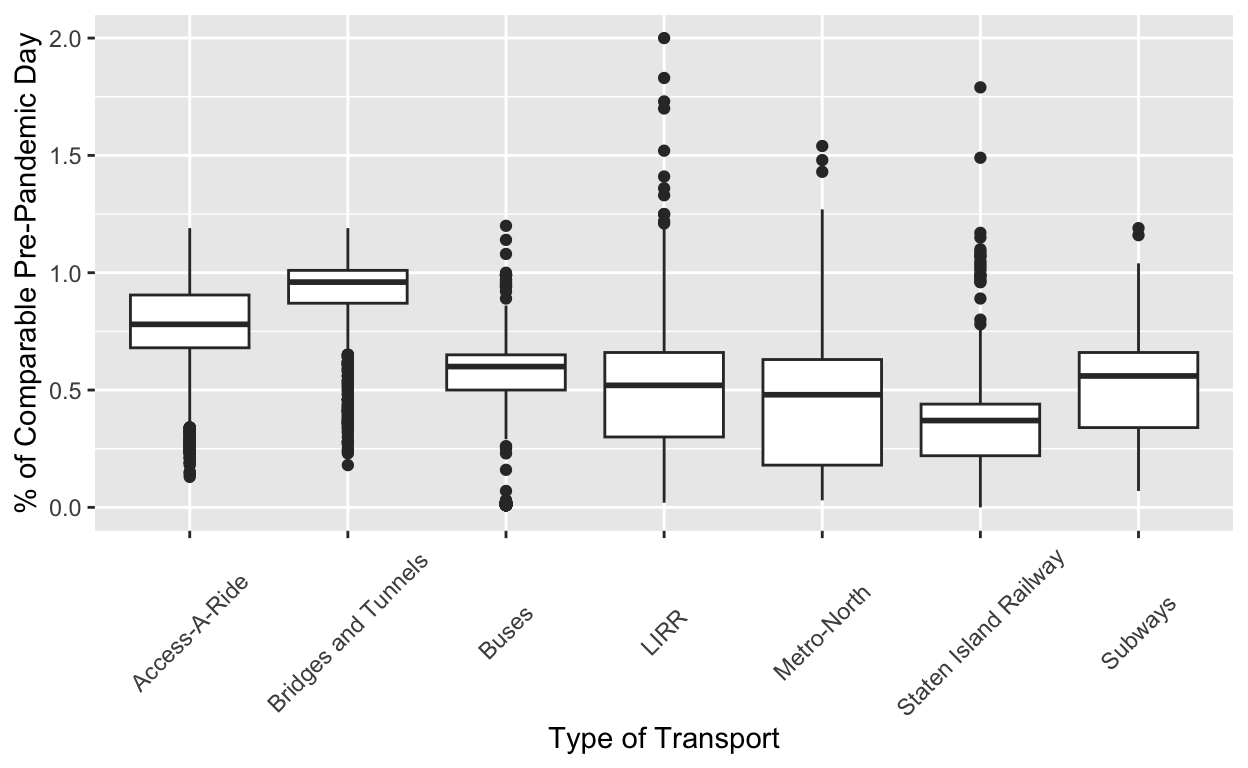
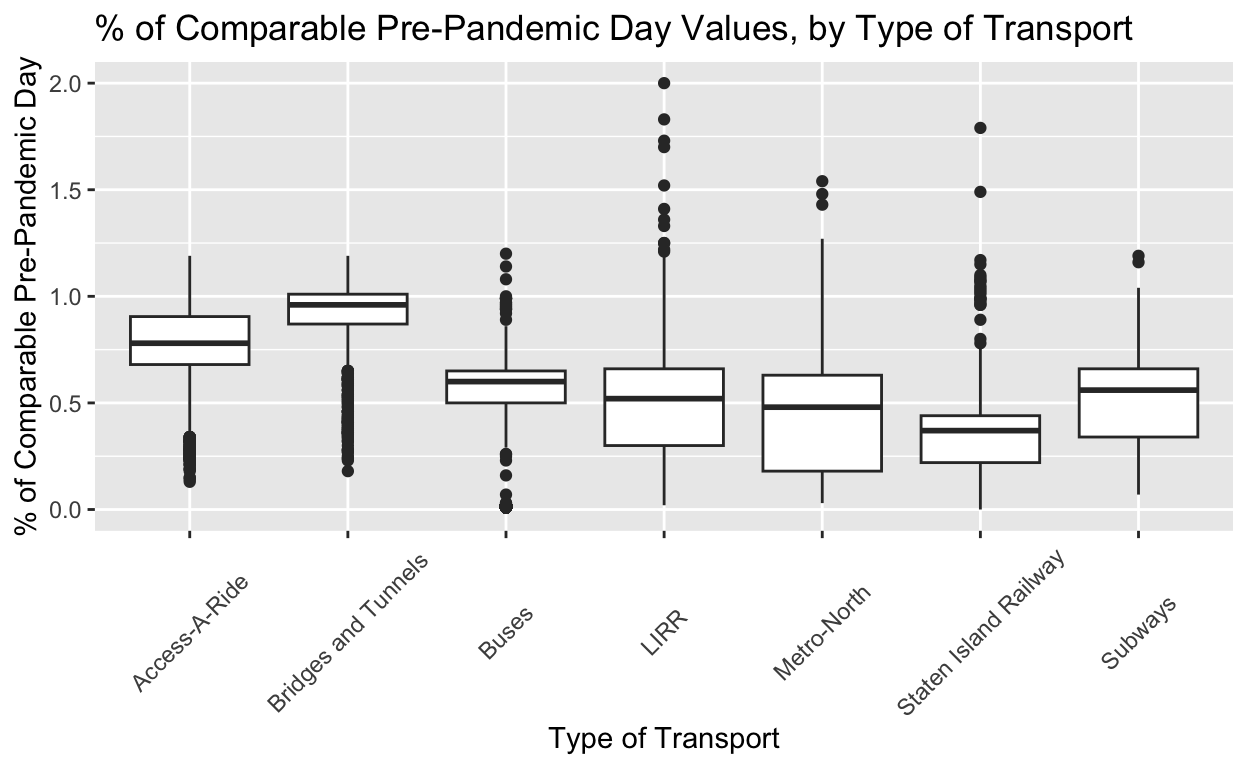
FINAL

diff --git a/index.html b/index.html
@@ -1521,10 +1521,11 @@ code span.wa { color: #5e5e5e; font-style: italic; } /* Warning */
 <div class="d-article">
 <h2 id="introduction">Introduction</h2>
 <p>As we approach four years since the start of the COVID-19 pandemic, our world seems to have returned to normalcy – or, at least, a new normal. There is no question that the pandemic touched multiple facets of our lives, from the way in which we learn, to the forms of interactions that maintain our interpersonal relationships. However, lingering effects of the pandemic still remain, like the rise of remote/hybrid work models even as many have returned to the office. One such lingering effect is seen in public transportation. Public transportation, especially in large cities, is the way in which thousands of people interact and cross paths with each other on a daily basis, so it’s natural that ridership levels took a hit during the pandemic. However, in the time since, has ridership recovered?</p>
-<p>In this study, I’m interested in exploring the extent to which public transport has been impacted by the COVID-19 pandemic. More specifically, which form of public transport has been hit the hardest? I plan to examine data from the New York Metropolitan Transportation Authority (MTA), containing statistics on ridership and the corresponding proportion of pre-pandemic ridership levels for each of the forms of public transport offered under the MTA in the greater New York City metropolitan area. I hypothesize that the Subway form of public transport suffered the largest impact on ridership from the pandemic, due to it having the highest ridership levels relative to all other forms of public transport, as well as the unavoidable proximity riders experience, and as a consequence, is likely viewed to be of highest-risk.</p>
+<p>In this analysis, I’m interested in exploring the extent to which public transport has been impacted by the COVID-19 pandemic. More specifically, which form of public transport has been hit the hardest? I plan to examine data from the New York Metropolitan Transportation Authority (MTA), containing statistics on ridership and the corresponding proportion of pre-pandemic ridership levels for each of the forms of public transport offered under the MTA in the greater New York City metropolitan area. I hypothesize that the Subway form of public transport suffered the largest impact on ridership from the pandemic, due to it having the highest ridership levels relative to all other forms of public transport, as well as the unavoidable proximity riders experience, and as a consequence, is likely viewed to be of highest-risk.</p>
 <h2 id="data">Data</h2>
-<p>The MTA is a public benefit corporation responsible for public transportation in the state of New York. This dataset provides systemwide ridership and traffic estimates for subways (including the Staten Island Railway), buses, Long Island Rail Road, Metro-North Railroad, Access-A-Ride, and Bridges and Tunnels, beginning March 1st, 2020 (April 1st, 2020 for LIRR and Metro-North), and provides a percentage comparison against a comparable pre-pandemic date (the equivalent month in 2019). Ridership figures (and subsequently, the <code>% of Comparable Pre-Pandemic Day</code> values [the dependent variable in this study]) are determined through what can be generalized as a census method – a combination of MetroCard, OMNY swipes/taps, ticket sales, scheduled trips, and toll collection systems – tracked over time (the independent variable) on a daily basis from March 1st, 2020 to present.</p>
-<p>The research design for this study follows the differences-in-differences method, with the “treatment” being the pandemic, the “treatment group” being the ridership levels pre-pandemic (2019 data), and the “control group” being the ridership levels after the onset of the pandemic (post-March 1st, 2020). Through the differences-in-differences research design, we are able to measure the effect the “treatment” (the pandemic) had on ridership over time. Below is a boxplot summarizing the <code>% of Comparable Pre-Pandemic Day</code> values for each type of transportation. As seen in the boxplot, the median <code>% of Comparable Pre-Pandemic Day</code> value hovers around 50-60% for most forms of transport, with some notably high exceptions for Bridges and Tunnels and Access-a-Ride.</p>
+<p>The MTA is a public benefit corporation responsible for public transportation in the state of New York. This dataset provides systemwide ridership and traffic estimates for subways (including the Staten Island Railway), buses, Long Island Rail Road, Metro-North Railroad, Access-A-Ride, and Bridges and Tunnels, beginning March 1st, 2020 (April 1st, 2020 for LIRR and Metro-North), and provides a percentage comparison against a comparable pre-pandemic date (the equivalent month in 2019). Ridership figures (and subsequently, the <code>% of Comparable Pre-Pandemic Day</code> values [the dependent variable in this analysis]) are determined through what can be generalized as a census method – a combination of MetroCard, OMNY swipes/taps, ticket sales, scheduled trips, and toll collection systems – tracked over time (the independent variable) on a daily basis from March 1st, 2020 to present.</p>
+<p>This analysis follows a longitudinal study method, as we are observing the same sample (ridership levels for each of the forms of transport) over an extended period of time (2020 to present) and are collecting this data without direct “treatment”. However, the “treatment” in this analysis can be seen as being the pandemic, the “treatment group” being the ridership levels pre-pandemic (2019 data), and the “control group” being the ridership levels after the onset of the pandemic (post-March 1st, 2020). Through the longitudinal research design, we are able to measure the effect the “treatment” (the pandemic) had on ridership over time. Below is a boxplot summarizing the <code>% of Comparable Pre-Pandemic Day</code> values for each type of transportation. As seen in the following boxplot, the median <code>% of Comparable Pre-Pandemic Day</code> value hovers around 50-60% for most forms of transport, with some notably high exceptions for Bridges and Tunnels and Access-a-Ride.</p>
+<h3 id="tidying-the-data">Tidying the Data</h3>
 <div class="layout-chunk" data-layout="l-body">
 <div class="sourceCode">
 <pre class="sourceCode r"><code class="sourceCode r"><span><span class='fu'><a href='https://rdrr.io/r/base/options.html'>options</a></span><span class='op'>(</span>width <span class='op'>=</span> <span class='fl'>100</span><span class='op'>)</span></span>
@@ -1562,7 +1563,7 @@ code span.wa { color: #5e5e5e; font-style: italic; } /* Warning */
 <span>  <span class='fu'><a href='https://rdrr.io/r/stats/na.fail.html'>na.omit</a></span><span class='op'>(</span><span class='op'>)</span></span></code></pre>
 </div>
 </div>
-<h3 id="of-comparable-pre-pandemic-day-values-by-type">% of Comparable Pre-Pandemic Day Values, by type</h3>
+<h3 id="summary-boxplot-of-dependent-variable">Summary Boxplot of Dependent Variable</h3>
 <div class="layout-chunk" data-layout="l-body">
 <div class="sourceCode">
 <pre class="sourceCode r"><code class="sourceCode r"><span><span class='va'>ridership_prop</span> <span class='op'>|&gt;</span></span>
@@ -1570,7 +1571,8 @@ code span.wa { color: #5e5e5e; font-style: italic; } /* Warning */
 <span>  <span class='fu'><a href='https://ggplot2.tidyverse.org/reference/geom_boxplot.html'>geom_boxplot</a></span><span class='op'>(</span><span class='op'>)</span> <span class='op'>+</span></span>
 <span>  <span class='fu'><a href='https://ggplot2.tidyverse.org/reference/labs.html'>labs</a></span><span class='op'>(</span></span>
 <span>    x <span class='op'>=</span> <span class='st'>"Type of Transport"</span>,</span>
-<span>    y <span class='op'>=</span> <span class='st'>"% of Comparable Pre-Pandemic Day"</span></span>
+<span>    y <span class='op'>=</span> <span class='st'>"% of Comparable Pre-Pandemic Day"</span>,</span>
+<span>    title <span class='op'>=</span> <span class='st'>"% of Comparable Pre-Pandemic Day Values, by Type of Transport"</span></span>
 <span>  <span class='op'>)</span> <span class='op'>+</span></span>
 <span>  <span class='fu'><a href='https://ggplot2.tidyverse.org/reference/theme.html'>theme</a></span><span class='op'>(</span>axis.text.x <span class='op'>=</span> <span class='fu'><a href='https://ggplot2.tidyverse.org/reference/element.html'>element_text</a></span><span class='op'>(</span>angle <span class='op'>=</span> <span class='fl'>45</span>, vjust <span class='op'>=</span> <span class='fl'>0.5</span><span class='op'>)</span><span class='op'>)</span></span></code></pre>
 </div>
@@ -1579,7 +1581,7 @@ code span.wa { color: #5e5e5e; font-style: italic; } /* Warning */
 <h2 id="results">Results</h2>
 <p>Below is a scatterplot graph with lines of best fit (individual points removed to maintain the graph’s readability) depicting <code>% of Comparable Pre-Pandemic Day</code> values from March 1st, 2020 to present for each form of transportation. Lines should each start at a y-value of 1, but because measurements began on March 1st, 2020 and COVID restrictions were enacted soon after the start of data collection, the <code>geom_smooth()</code> function causes the <code>% of Comparable Pre-Pandemic Day</code> values to appear to start at far less than 1.</p>
 <p>As seen in the graph, buses were initially most severely impacted by the pandemic, with their <code>% of Comparable Pre-Pandemic Day</code> measurements dropping the most relative to any other form of transportation. Other forms of transport, such as the subway, LIRR, Metro-North, and Staten Island Railway, also had significant drops in ridership relative to a comparable pre-pandemic day. However, Bridges and Tunnels and Access-a-Ride had relative increases in ridership, which make sense, given individuals worried about transmission tended to prefer forms of transport that are not as close-contact as subways or buses. Following the <code>% of Comparable Pre-Pandemic Day</code> measurements for each of the forms of transport over time, we can see that Bridges and Tunnels and Access-a-Ride ridership levels have recovered to near pre-pandemic levels; however, other forms of public transport such as subways, buses, and the Staten Island Railway are still suffering the effects of the pandemic with ridership levels hovering at around 60% of pre-pandemic levels.</p>
-<h3 id="of-comparable-pre-pandemic-day-values-over-time">% of Comparable Pre-Pandemic Day Values, over time</h3>
+<h3 id="main-relationship-of-interest-plot">Main Relationship of Interest Plot</h3>
 <div class="layout-chunk" data-layout="l-body">
 <div class="sourceCode">
 <pre class="sourceCode r"><code class="sourceCode r"><span><span class='va'>ridership_prop</span> <span class='op'>|&gt;</span></span>
@@ -1589,6 +1591,7 @@ code span.wa { color: #5e5e5e; font-style: italic; } /* Warning */
 <span>  <span class='fu'><a href='https://ggplot2.tidyverse.org/reference/labs.html'>labs</a></span><span class='op'>(</span></span>
 <span>    x <span class='op'>=</span> <span class='st'>"Date"</span>,</span>
 <span>    y <span class='op'>=</span> <span class='st'>"% of Comparable Pre-Pandemic Day"</span>,</span>
+<span>    title <span class='op'>=</span> <span class='st'>"% of Comparable Pre-Pandemic Day Values, by Type of Transport"</span>,</span>
 <span>    col <span class='op'>=</span> <span class='st'>"Type of Transport"</span></span>
 <span>  <span class='op'>)</span></span></code></pre>
 </div>
